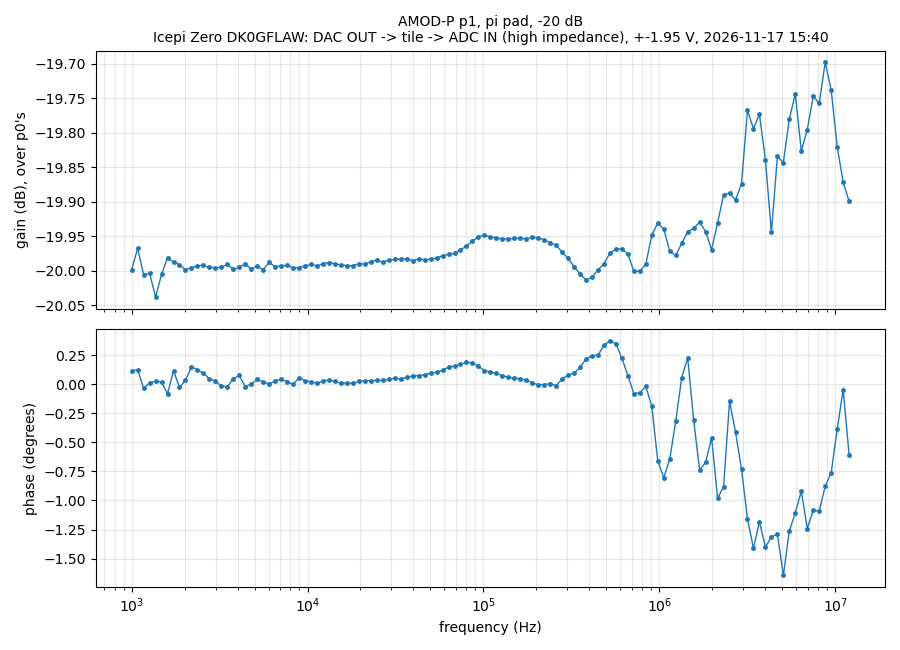
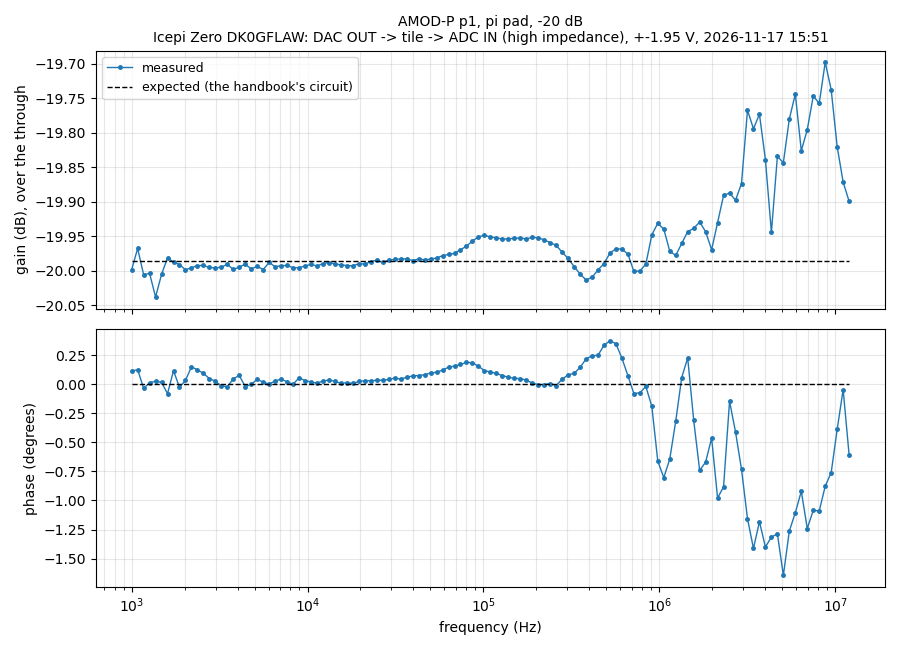
amodp.py: the handbook's circuits as expected curves (each board's source and load), finer steps on the resonators, the crystal's search, p4's switch states, p1 as the Icepi's 50 ohm load
Claude-Session: https://claude.ai/code/session_01Uf588GeGuaJ8vb8pWfQfmA

diff --git a/src/verilog/amodp.py b/src/verilog/amodp.py
@@ -4,12 +4,22 @@
     make load-lockin2                  # ECP5-2ADC-2DAC: lockin2.bit
     python3 amodp.py p0                # the through: a barrel joining the two cables, the calibration
     python3 amodp.py p1                # a tile: DAC 1 -> the tile's IN, its OUT -> ADC A; divided by p0
+    python3 amodp.py p4-12             # p4 with both DIP switches on (p4, p4-1, p4-2, p4-12)
 
 The same file sits in the Icepi Zero tutorial (with lockin_half.bit there); the board decides which lock-in it uses.
-Each sweep is 121 frequencies from 1 kHz to 12 MHz, log spaced, two 42 ms averages each.  The lock-in gives the ADC's
-complex amplitude against the DAC's own oscillator, so the phase is absolute up to a fixed delay that p0 measures and
-the division removes, along with both cables, the DAC's and the ADC's response and their different volts per code.
-Saved in ../../dev/data/amodp/: <board>_<tile>.npz (f, z at the ADC, and h = z / z of p0) and <board>_<tile>.png.
+Each sweep is 121 frequencies from 1 kHz to 12 MHz, log spaced, two 42 ms averages each, plus finer steps where a
+tile has a narrow feature (the resonators; the quartz crystal gets a search and then 5 Hz steps).  The lock-in gives
+the ADC's complex amplitude against the DAC's own oscillator, so the phase is absolute up to a fixed delay that p0
+measures and the division removes, along with both cables, the DAC's and the ADC's response and their different volts
+per code.  (p0 is interpolated to the extra frequencies with its delay taken out first.)
+
+The two boards load a tile differently, and the dashed "expected" curve is the handbook's circuit between them:
+    ECP5-2ADC-2DAC   the DAC is a 50 ohm source, ADC A (TERM jumper in) a 50 ohm load: what the handbook assumes
+    Icepi Zero       the DAC is a 51 ohm source (p1 says so), the ADC about 20.6 k (p2's loss at 1 kHz says so)
+On the Icepi a tile made for 50 ohm can be followed by p1 (tile OUT -> p1 IN, p1 OUT -> ADC IN): p1's IN is 51.6 ohm,
+so the tile sees the load it was made for.  A sweep 14 dB or more down everywhere is taken to be through p1, and is
+divided by p1's own sweep.
+Saved in ../../dev/data/amodp/: <board>_<tile>.npz (f, z at the ADC, h = z / z of p0) and <board>_<tile>.png.
 """
 import argparse
 import glob
@@ -24,12 +34,88 @@ HERE = os.path.dirname(os.path.abspath(__file__))
 DATA = os.path.normpath(os.path.join(HERE, "../../dev/data/amodp"))
 FREQS = np.geomspace(1e3, 12e6, 121)
 TILES = {"p0": "through (a barrel): the calibration", "p1": "pi pad, -20 dB", "p2": "RC low-pass, 159 kHz",
-         "p3": "RC high-pass, 159 kHz", "p4": "series RLC, 100 uH 220 pF", "p5": "LC low-pass, 9 MHz",
-         "p6": "LC low-pass, 100 kHz", "p7": "band-pass, 4.7-7.5 MHz", "p8": "quartz crystal, 4 MHz",
+         "p3": "RC high-pass, 159 kHz", "p4": "series RLC 100 uH 220 pF, switches off: 1.07 MHz",
+         "p4-1": "series RLC, switch 1 on (+47 pF): 0.98 MHz", "p4-2": "series RLC, switch 2 on (+100 pF): 0.89 MHz",
+         "p4-12": "series RLC, both switches on (+147 pF): 0.83 MHz", "p5": "LC low-pass, 9 MHz",
+         "p6": "LC low-pass, 118 kHz", "p7": "band-pass, 4.7-7.5 MHz", "p8": "quartz crystal, 4 MHz",
          "p9": "ceramic resonator, 455 kHz", "p10": "clipper, 1N4148 +-0.6 V", "p11": "delay line, 400 ns",
          "p12": "LEDs", "p13": "AM loopstick, 0.5-1.7 MHz"}
+EXTRA = {"p4": np.linspace(0.4e6, 2.4e6, 81), "p5": np.linspace(4e6, 12e6, 41), "p6": np.linspace(50e3, 300e3, 51),
+         "p7": np.linspace(3e6, 10e6, 71), "p9": np.linspace(420e3, 500e3, 401), "p11": np.linspace(0.2e6, 12e6, 119)}
+BOARD_LOAD = {"ecp5": (50.0, 50.0), "icepi": (51.0, 20.6e3)}       # (the DAC's source, the ADC's load), ohms
 
 
+# ---- the handbook's circuits, as ABCD matrices (series Z, shunt Y), for the expected curves -----------------------
+def _ser(z):
+    z = np.asarray(z, complex)
+    return np.array([[np.ones_like(z), z], [np.zeros_like(z), np.ones_like(z)]])
+
+
+def _sh(y):
+    y = np.asarray(y, complex)
+    return np.array([[np.ones_like(y), np.zeros_like(y)], [y, np.ones_like(y)]])
+
+
+def _chain(*ms):
+    out = ms[0]
+    for m in ms[1:]:
+        out = np.einsum("ijf,jkf->ikf", out, m)
+    return out
+
+
+def _xtal(w, cm, q, c0, f0=None):
+    lm = 1 / ((2 * np.pi * f0) ** 2 * cm)
+    zm = 2 * np.pi * f0 * lm / q + 1j * w * lm + 1 / (1j * w * cm)
+    z0 = 1 / (1j * w * c0)
+    return zm * z0 / (zm + z0)
+
+
+def abcd(tile, f):
+    w = 2 * np.pi * np.asarray(f, float)
+    C = lambda c: 1j * w * c                                   # noqa: E731
+    L = lambda l: 1j * w * l                                   # noqa: E731
+    if tile == "p1":
+        return _chain(_sh(1 / 61.9 + 0 * w), _ser(249 + 0 * w), _sh(1 / 61.9 + 0 * w))
+    if tile == "p2":
+        return _chain(_ser(1000 + 0 * w), _sh(C(1e-9)))
+    if tile == "p3":
+        return _chain(_ser(1 / C(1e-9)), _sh(1 / 1000 + 0 * w))
+    if tile.startswith("p4"):
+        c = 220e-12 + 47e-12 * ("1" in tile[2:]) + 100e-12 * ("2" in tile[2:])
+        return _ser(10 + L(100e-6) + 1 / C(c))
+    if tile == "p5":
+        return _chain(_sh(C(220e-12)), _ser(L(1.5e-6)), _sh(C(680e-12)), _ser(L(1.5e-6)), _sh(C(220e-12)))
+    if tile == "p6":
+        return _chain(_sh(C(20e-9)), _ser(L(150e-6)), _sh(C(20e-9)))
+    if tile == "p7":
+        s = L(2.7e-6) + 1 / C(270e-12)
+        return _chain(_ser(s), _sh(1 / L(330e-9) + C(2.2e-9)), _ser(s))
+    if tile == "p8":
+        return _ser(_xtal(w, 15e-15, 50e3, 4e-12, 4.0e6))
+    if tile == "p9":
+        return _ser(_xtal(w, 7e-12, 400, 250e-12, 455e3))
+    if tile == "p11":
+        return _chain(*[m for _ in range(20) for m in (_ser(L(1e-6)), _sh(C(390e-12)))])
+    return None
+
+
+def expected(tile, f, board, via_p1=False):
+    """The tile's gain over the through, from the handbook's values and the board's source and load."""
+    m = abcd(tile, f)
+    if m is None:
+        return None
+    rs, rl = BOARD_LOAD[board]
+
+    def vout(m):                                               # V_load / V_source
+        a, b, c, d = m[0, 0], m[0, 1], m[1, 0], m[1, 1]
+        return rl / (a * rl + b + rs * (c * rl + d))
+    through = rl / (rl + rs)
+    if via_p1:
+        return vout(_chain(m, abcd("p1", f))) / vout(abcd("p1", f))
+    return vout(m) / through
+
+
+# ---- the two boards ---------------------------------------------------------------------------------------------
 class Ecp5:
     name, label = "ecp5", "ECP5-2ADC-2DAC board A: DAC 1 -> tile -> ADC A (50 ohm)"
 
@@ -52,7 +138,7 @@ class Ecp5:
 
 
 class Icepi:
-    name, label = "icepi", "Icepi Zero DK0GFLAW: DAC OUT -> tile -> ADC IN (high impedance), +-1.95 V"
+    name, label = "icepi", "Icepi Zero DK0GFLAW: DAC OUT -> tile -> ADC IN (20.6 k), +-1.95 V"
     SERIAL = "DK0GFLAW"
 
     def open(self):                          # the FT231X programs the FPGA too: open the port after loading
@@ -74,9 +160,9 @@ def board():
     return Ecp5() if os.path.exists(os.path.join(HERE, "lockin2.sv")) else Icepi()
 
 
-def sweep(b):
+def sweep(b, freqs):
     fs, zs = [], []
-    for f in FREQS:
+    for f in freqs:
         for attempt in range(2):
             try:
                 fa, z = b.measure(f)
@@ -90,7 +176,36 @@ def sweep(b):
     return np.array(fs), np.array(zs)
 
 
-def summary(f, h, tile):
+def crystal_sweep(b, z0_at):
+    """The quartz crystal: Q about 17,000 between 50 ohm ports, a 230 Hz wide peak somewhere near 4 MHz (the crystal's
+    tolerance and the board's own clock both move it by 100s of Hz).  Search in 50 Hz steps, then 5 Hz steps across
+    the series resonance (the peak) and the parallel resonance (the notch a few kHz above it)."""
+    f1, z1 = sweep(b, np.arange(3.985e6, 4.015e6, 50.0))
+    g = np.abs(z1 / z0_at(f1))
+    k = np.argmax(g)
+    above = (f1 > f1[k] + 1e3) & (f1 < f1[k] + 15e3)
+    kp = np.flatnonzero(above)[np.argmin(g[above])] if above.any() else k
+    f2, z2 = sweep(b, f1[k] + np.arange(-300, 301, 5.0))
+    f3, z3 = sweep(b, f1[kp] + np.arange(-300, 301, 5.0))
+    return np.concatenate([f1, f2, f3]), np.concatenate([z1, z2, z3])
+
+
+def interp_through(f0, z0):
+    """p0 at any frequency: take the chain's delay out (a straight phase line above 1 MHz), interpolate the smooth
+    rest in log f, put the delay back."""
+    hi = f0 > 1e6
+    tau = -np.polyfit(f0[hi], np.unwrap(np.angle(z0[hi])), 1)[0] / (2 * np.pi)
+    zc = z0 * np.exp(2j * np.pi * f0 * tau)
+    lf, lm, ph = np.log(f0), np.log(np.abs(zc)), np.unwrap(np.angle(zc))
+
+    def at(f):
+        f = np.clip(np.asarray(f, float), f0[0], f0[-1])
+        return np.exp(np.interp(np.log(f), lf, lm) + 1j * np.interp(np.log(f), lf, ph)) * np.exp(-2j * np.pi * f * tau)
+    return at
+
+
+def summary(f, h):
+    o = np.argsort(f); f, h = f[o], h[o]
     db = 20 * np.log10(np.abs(h))
     ph = np.degrees(np.unwrap(np.angle(h)))
     out = []
@@ -98,33 +213,40 @@ def summary(f, h, tile):
         i = np.argmin(np.abs(f - fq))
         out.append("%s %+.1f dB %+.0f deg" % (("%g kHz" % (fq / 1e3)) if fq < 1e6 else ("%g MHz" % (fq / 1e6)), db[i], ph[i]))
     i = np.argmax(db)
-    s = "; ".join(out) + "; max %+.1f dB at %.3g Hz" % (db[i], f[i])
+    s = "; ".join(out) + "; max %+.1f dB at %.6g Hz" % (db[i], f[i])
     below = np.flatnonzero(db < db[i] - 3)
     lo, hi = below[below < i], below[below > i]
     if len(hi):
-        s += "; -3 dB above it at %.3g Hz" % f[hi[0]]
+        s += "; -3 dB above it at %.4g Hz" % f[hi[0]]
     if len(lo):
-        s += "; -3 dB below it at %.3g Hz" % f[lo[-1]]
+        s += "; -3 dB below it at %.4g Hz" % f[lo[-1]]
     return s
 
 
-def plot(path, f, h, tile, label, raw=False):
+def plot(path, f, h, tile, label, board_name, via_p1=False, raw=False):
     import matplotlib
     matplotlib.use("Agg")
     import matplotlib.pyplot as plt
+    o = np.argsort(f); f, h = f[o], h[o]
     fig, (a1, a2) = plt.subplots(2, 1, figsize=(9, 6.5), sharex=True)
-    a1.semilogx(f, 20 * np.log10(np.abs(h)), "o-", ms=2.5, lw=1)
-    a1.set_ylabel("gain (dB)" + (", from its value at 1 kHz" if raw else ", over p0's"))
-    a1.grid(alpha=0.3, which="both")
+    a1.semilogx(f, 20 * np.log10(np.abs(h)), "o-", ms=2.5, lw=1, label="measured")
     a2.semilogx(f, np.degrees(np.unwrap(np.angle(h))), "o-", ms=2.5, lw=1)
+    e = None if raw else expected(tile, f, board_name, via_p1)
+    if e is not None:
+        a1.semilogx(f, 20 * np.log10(np.abs(e)), "k--", lw=1, label="expected (the handbook's circuit)")
+        a2.semilogx(f, np.degrees(np.unwrap(np.angle(e))), "k--", lw=1)
+        a1.legend(fontsize=9)
+    a1.set_ylabel("gain (dB)" + (", from its value at 1 kHz" if raw else ", over the through"))
+    a1.grid(alpha=0.3, which="both")
     a2.set_ylabel("phase (degrees)"); a2.set_xlabel("frequency (Hz)"); a2.grid(alpha=0.3, which="both")
-    a1.set_title("AMOD-P %s, %s\n%s, %s" % (tile, TILES.get(tile, ""), label, time.strftime("%Y-%m-%d %H:%M")), fontsize=10)
+    a1.set_title("AMOD-P %s, %s%s\n%s, %s" % (tile, TILES.get(tile, ""), " (then p1: a 50 ohm load)" if via_p1 else "",
+                                             label, time.strftime("%Y-%m-%d %H:%M")), fontsize=10)
     fig.tight_layout(); fig.savefig(path, dpi=100); plt.close(fig)
 
 
 def main():
     ap = argparse.ArgumentParser(description=__doc__, formatter_class=argparse.RawDescriptionHelpFormatter)
-    ap.add_argument("tile", help="p0 (the through) .. p13")
+    ap.add_argument("tile", help="p0 (the through) .. p13; p4-1, p4-2, p4-12 for p4's switches")
     ap.add_argument("--load", action="store_true", help="load the lock-in's bitstream first")
     a = ap.parse_args()
     os.makedirs(DATA, exist_ok=True)
@@ -133,23 +255,37 @@ def main():
         b.load()
     b.open()
     t0 = time.time()
-    f, z = sweep(b)
     base = os.path.join(DATA, "%s_%s" % (b.name, a.tile))
-    p0 = os.path.join(DATA, "%s_p0.npz" % b.name)
+    stamp = time.strftime("%Y-%m-%d %H:%M:%S")
     if a.tile == "p0":
+        f, z = sweep(b, FREQS)
         h = z / z[0]
-        np.savez(base + ".npz", f=f, z=z, h=h, tile=a.tile, label=b.label, t=time.strftime("%Y-%m-%d %H:%M:%S"))
-        plot(base + ".png", f, h, a.tile, b.label, raw=True)
+        np.savez(base + ".npz", f=f, z=z, h=h, tile=a.tile, label=b.label, t=stamp)
+        plot(base + ".png", f, h, a.tile, b.label, b.name, raw=True)
         hi = f > 1e6
         slope = np.polyfit(f[hi], np.unwrap(np.angle(z[hi])), 1)[0]
         print("%s p0: %.0f s; |z| at 1 kHz %.4g; %s; the chain's delay (phase slope above 1 MHz) %.1f ns"
-              % (b.name, time.time() - t0, abs(z[0]), summary(f, h, a.tile), -slope / (2 * np.pi) * 1e9))
+              % (b.name, time.time() - t0, abs(z[0]), summary(f, h), -slope / (2 * np.pi) * 1e9))
+        return
+    d0 = np.load(os.path.join(DATA, "%s_p0.npz" % b.name))
+    z0_at = interp_through(d0["f"], d0["z"])
+    if a.tile == "p8":
+        f, z = crystal_sweep(b, z0_at)
+        f2, z2 = sweep(b, FREQS)
+        f, z = np.concatenate([f2, f]), np.concatenate([z2, z])
     else:
-        d0 = np.load(p0)
-        h = z / d0["z"]
-        np.savez(base + ".npz", f=f, z=z, h=h, tile=a.tile, label=b.label, t=time.strftime("%Y-%m-%d %H:%M:%S"))
-        plot(base + ".png", f, h, a.tile, b.label)
-        print("%s %s: %.0f s; %s" % (b.name, a.tile, time.time() - t0, summary(f, h, a.tile)))
+        extra = EXTRA.get(a.tile.split("-")[0], np.array([]))
+        f, z = sweep(b, np.sort(np.concatenate([FREQS, extra])))
+    h = z / z0_at(f)
+    via_p1 = b.name == "icepi" and a.tile not in ("p1", "p2", "p3") and np.abs(h).max() < 10 ** (-14 / 20)
+    h_raw = h
+    if via_p1:
+        d1 = np.load(os.path.join(DATA, "%s_p1.npz" % b.name))
+        h = h / interp_through(d1["f"], d1["z"])(f) * z0_at(f)       # / (p1 over the through)
+    np.savez(base + ".npz", f=f, z=z, h=h, h_before_p1=h_raw, via_p1=via_p1, tile=a.tile, label=b.label, t=stamp)
+    plot(base + ".png", f, h, a.tile, b.label, b.name, via_p1)
+    print("%s %s%s: %.0f s; %s" % (b.name, a.tile, " (through p1, divided by it)" if via_p1 else "", time.time() - t0,
+                                  summary(f, h)))
 
 
 if __name__ == "__main__":
